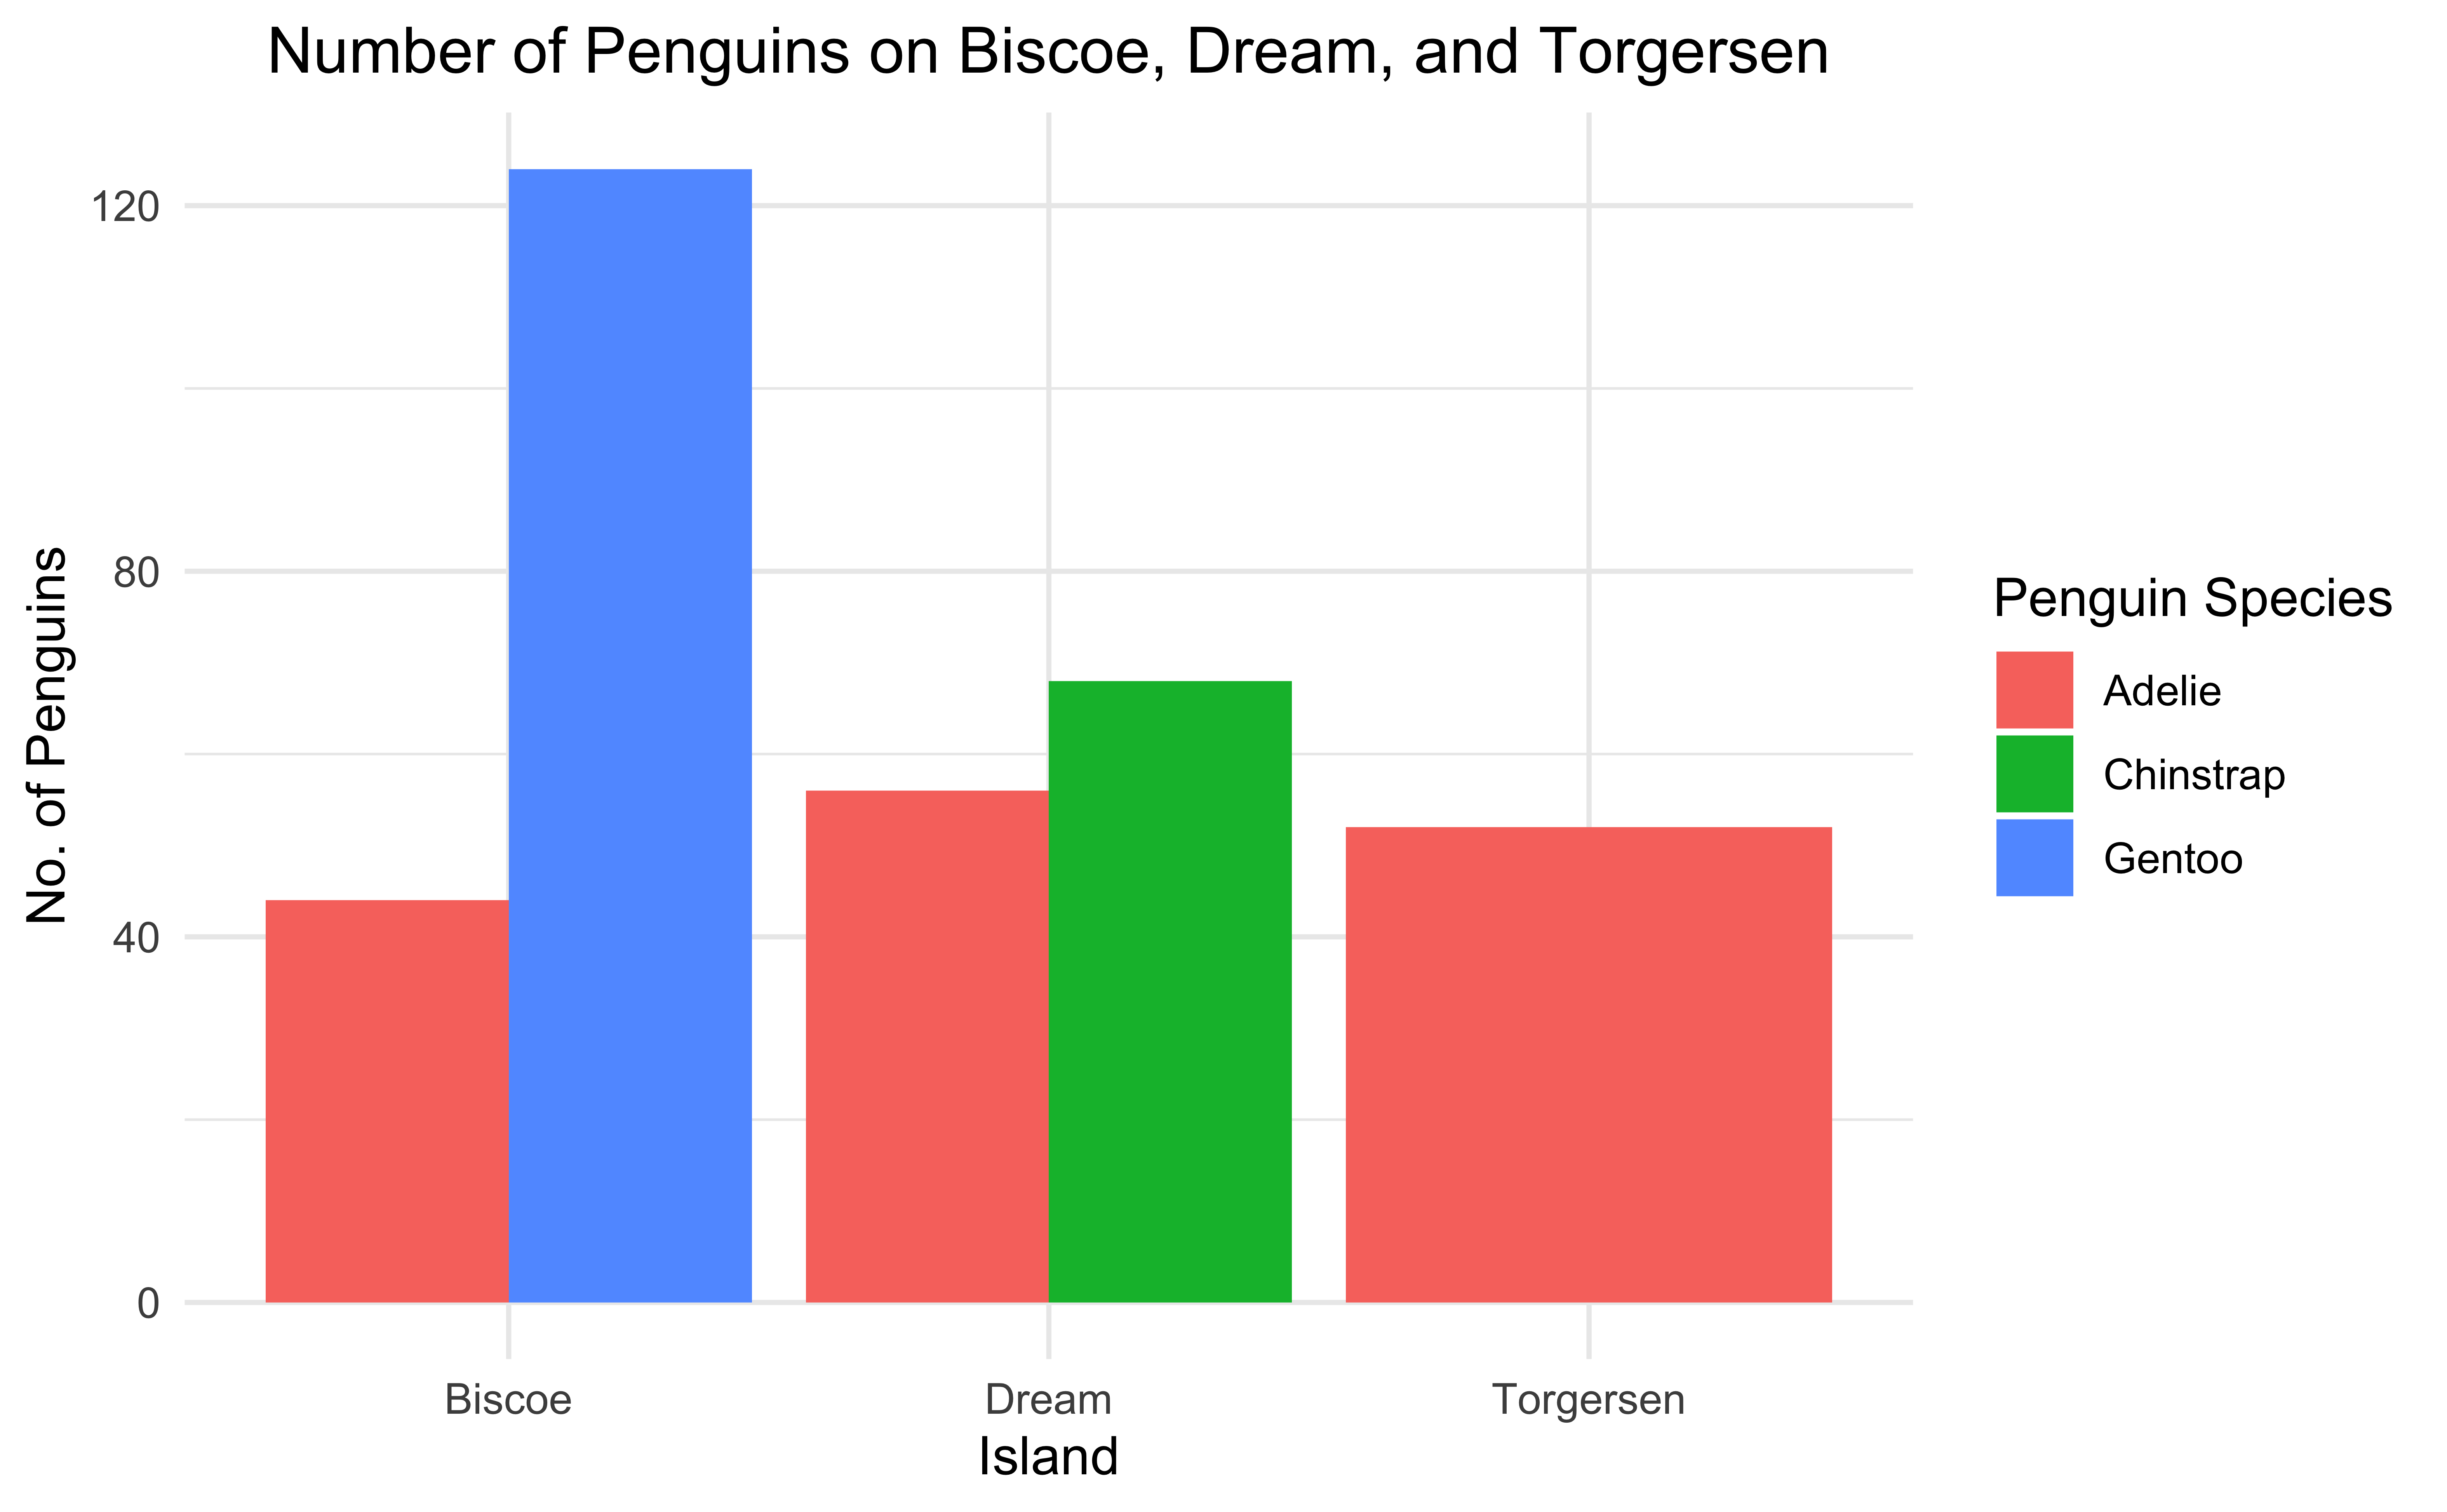
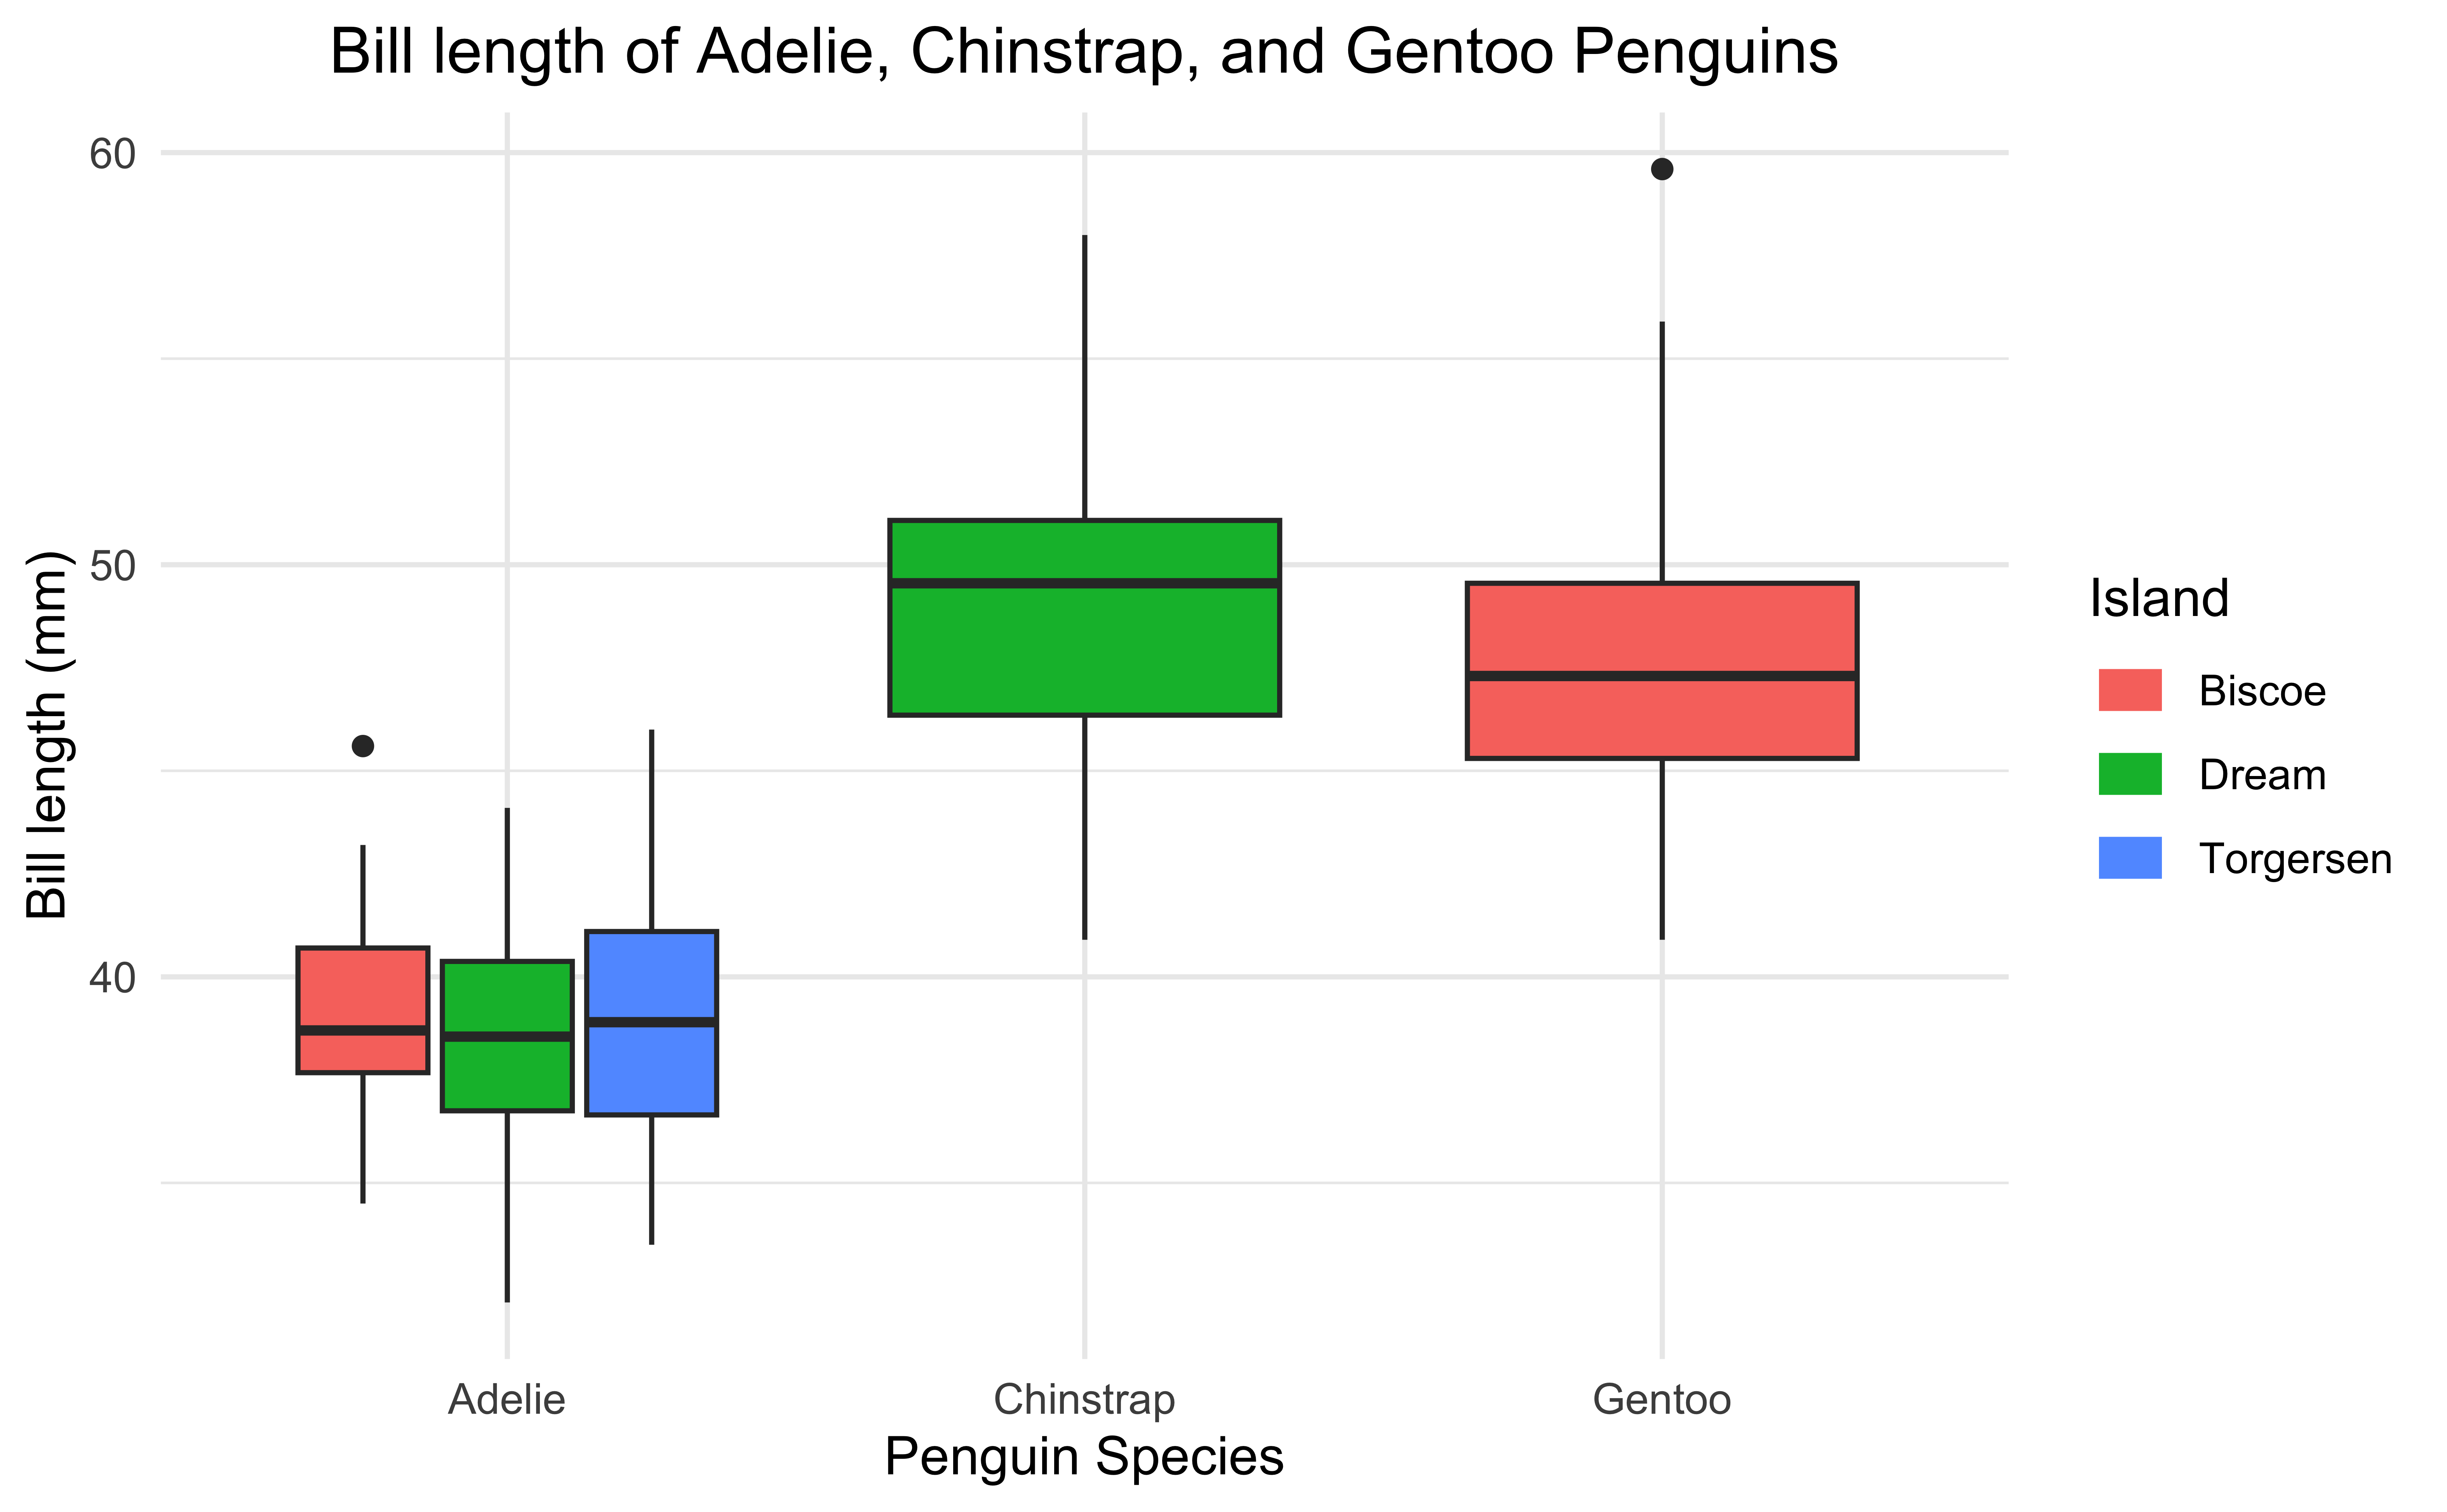
rendered all the changes

diff --git a/_site/proposal.html b/_site/proposal.html
@@ -4315,31 +4315,31 @@ vertical-align: -.125em;
 <h2 class="anchored" data-anchor-id="dataset">Dataset</h2>
 <div class="cell">
 <div class="code-copy-outer-scaffold"><div class="sourceCode cell-code" id="cb2"><pre class="sourceCode numberSource r number-lines code-with-copy"><code class="sourceCode r"><span id="cb2-1"><a href="#cb2-1"></a><span class="co"># load the dataset</span></span>
-<span id="cb2-2"><a href="#cb2-2"></a>penguins <span class="ot">&lt;-</span> readr<span class="sc">::</span><span class="fu">read_csv</span>(<span class="st">&#39;https://raw.githubusercontent.com/rfordatascience/tidytuesday/main/data/2025/2025-04-15/penguins.csv&#39;</span>)</span></code></pre></div><button title="Copy to Clipboard" class="code-copy-button"><i class="bi"></i></button></div>
+<span id="cb2-2"><a href="#cb2-2"></a>penguin <span class="ot">&lt;-</span> readr<span class="sc">::</span><span class="fu">read_csv</span>(<span class="st">&#39;https://raw.githubusercontent.com/rfordatascience/tidytuesday/main/data/2025/2025-04-15/penguins.csv&#39;</span>)</span></code></pre></div><button title="Copy to Clipboard" class="code-copy-button"><i class="bi"></i></button></div>
 </div>
 <div class="cell">
 <div class="code-copy-outer-scaffold"><div class="sourceCode cell-code" id="cb3"><pre class="sourceCode numberSource r number-lines code-with-copy"><code class="sourceCode r"><span id="cb3-1"><a href="#cb3-1"></a><span class="co"># View the first 10 lines of the dataset</span></span>
 <span id="cb3-2"><a href="#cb3-2"></a><span class="fu">head</span>(penguins)</span></code></pre></div><button title="Copy to Clipboard" class="code-copy-button"><i class="bi"></i></button></div>
 <div class="cell-output cell-output-stdout">
-<pre><code># A tibble: 6 × 8
-  species island    bill_len bill_dep flipper_len body_mass sex     year
-  &lt;chr&gt;   &lt;chr&gt;        &lt;dbl&gt;    &lt;dbl&gt;       &lt;dbl&gt;     &lt;dbl&gt; &lt;chr&gt;  &lt;dbl&gt;
-1 Adelie  Torgersen     39.1     18.7         181      3750 male    2007
-2 Adelie  Torgersen     39.5     17.4         186      3800 female  2007
-3 Adelie  Torgersen     40.3     18           195      3250 female  2007
-4 Adelie  Torgersen     NA       NA            NA        NA &lt;NA&gt;    2007
-5 Adelie  Torgersen     36.7     19.3         193      3450 female  2007
-6 Adelie  Torgersen     39.3     20.6         190      3650 male    2007</code></pre>
+<pre><code>  species    island bill_len bill_dep flipper_len body_mass    sex year
+1  Adelie Torgersen     39.1     18.7         181      3750   male 2007
+2  Adelie Torgersen     39.5     17.4         186      3800 female 2007
+3  Adelie Torgersen     40.3     18.0         195      3250 female 2007
+4  Adelie Torgersen       NA       NA          NA        NA   &lt;NA&gt; 2007
+5  Adelie Torgersen     36.7     19.3         193      3450 female 2007
+6  Adelie Torgersen     39.3     20.6         190      3650   male 2007</code></pre>
 </div>
 <div class="code-copy-outer-scaffold"><div class="sourceCode cell-code" id="cb5"><pre class="sourceCode numberSource r number-lines code-with-copy"><code class="sourceCode r"><span id="cb5-1"><a href="#cb5-1"></a><span class="co"># Preview the unique penguin species in the dataset</span></span>
 <span id="cb5-2"><a href="#cb5-2"></a><span class="fu">unique</span>(penguins<span class="sc">$</span>species)</span></code></pre></div><button title="Copy to Clipboard" class="code-copy-button"><i class="bi"></i></button></div>
 <div class="cell-output cell-output-stdout">
-<pre><code>[1] &quot;Adelie&quot;    &quot;Gentoo&quot;    &quot;Chinstrap&quot;</code></pre>
+<pre><code>[1] Adelie    Gentoo    Chinstrap
+Levels: Adelie Chinstrap Gentoo</code></pre>
 </div>
 <div class="code-copy-outer-scaffold"><div class="sourceCode cell-code" id="cb7"><pre class="sourceCode numberSource r number-lines code-with-copy"><code class="sourceCode r"><span id="cb7-1"><a href="#cb7-1"></a><span class="co"># Preview the unique islands in the dataset</span></span>
 <span id="cb7-2"><a href="#cb7-2"></a><span class="fu">unique</span>(penguins<span class="sc">$</span>island)</span></code></pre></div><button title="Copy to Clipboard" class="code-copy-button"><i class="bi"></i></button></div>
 <div class="cell-output cell-output-stdout">
-<pre><code>[1] &quot;Torgersen&quot; &quot;Biscoe&quot;    &quot;Dream&quot;    </code></pre>
+<pre><code>[1] Torgersen Biscoe    Dream    
+Levels: Biscoe Dream Torgersen</code></pre>
 </div>
 <div class="code-copy-outer-scaffold"><div class="sourceCode cell-code" id="cb9"><pre class="sourceCode numberSource r number-lines code-with-copy"><code class="sourceCode r"><span id="cb9-1"><a href="#cb9-1"></a><span class="co"># Preview unique years in dataset</span></span>
 <span id="cb9-2"><a href="#cb9-2"></a><span class="fu">unique</span>(penguins<span class="sc">$</span>year)</span></code></pre></div><button title="Copy to Clipboard" class="code-copy-button"><i class="bi"></i></button></div>
@@ -4999,7 +4999,7 @@ vertical-align: -.125em;
 <span id="cb11-29"><a href="#cb11-29"></a></span>
 <span id="cb11-32"><a href="#cb11-32"></a><span class="in">```{r}</span></span>
 <span id="cb11-33"><a href="#cb11-33"></a><span class="co"># load the dataset</span></span>
-<span id="cb11-34"><a href="#cb11-34"></a>penguins <span class="ot">&lt;-</span> readr<span class="sc">::</span><span class="fu">read_csv</span>(<span class="st">&#39;https://raw.githubusercontent.com/rfordatascience/tidytuesday/main/data/2025/2025-04-15/penguins.csv&#39;</span>)</span>
+<span id="cb11-34"><a href="#cb11-34"></a>penguin <span class="ot">&lt;-</span> readr<span class="sc">::</span><span class="fu">read_csv</span>(<span class="st">&#39;https://raw.githubusercontent.com/rfordatascience/tidytuesday/main/data/2025/2025-04-15/penguins.csv&#39;</span>)</span>
 <span id="cb11-35"><a href="#cb11-35"></a><span class="in">```</span></span>
 <span id="cb11-36"><a href="#cb11-36"></a></span>
 <span id="cb11-39"><a href="#cb11-39"></a><span class="in">```{r}</span></span>
@@ -5015,7 +5015,7 @@ vertical-align: -.125em;
 <span id="cb11-49"><a href="#cb11-49"></a></span>
 <span id="cb11-50"><a href="#cb11-50"></a><span class="fu">## Introduction to the Dataset</span></span>
 <span id="cb11-51"><a href="#cb11-51"></a></span>
-<span id="cb11-52"><a href="#cb11-52"></a>The Palmer Penguins dataset was first created in TidyTuesday in July 2020 and was last updated in 2025. The dataset has <span class="in">`r ncol(penguins)`</span> columns/variables - Species, Island, Bill length, Bill depth, Flipper length, Body mass, Sex, and Year. There are <span class="in">`r nrow(penguins)`</span> observations/rows of data on the various species of penguins. The species included in this dataset includes <span class="in">`r dplyr::n_distinct(penguins$species)`</span> types of penguins - Adelie, Gentoo, and Chinstrap. The dataset also focuses on <span class="in">`r dplyr::n_distinct(penguins$island)`</span> islands - Torgersen, Biscoe, and Dream. I chose this dataset as I love penguins and I would love to see how different factors can affect the different characteristics in penguins. It would also be interesting to see how the body mass of penguins change over the years through evolution.</span>
+<span id="cb11-52"><a href="#cb11-52"></a>The Palmer Penguins dataset was first created in TidyTuesday in July 2020 and was last updated in 2025. The dataset has <span class="in">`r ncol(penguin)`</span> columns/variables - Species, Island, Bill length, Bill depth, Flipper length, Body mass, Sex, and Year. There are <span class="in">`r nrow(penguin)`</span> observations/rows of data on the various species of penguins. The species included in this dataset includes <span class="in">`r dplyr::n_distinct(penguin$species)`</span> types of penguins - Adelie, Gentoo, and Chinstrap. The dataset also focuses on <span class="in">`r dplyr::n_distinct(penguin$island)`</span> islands - Torgersen, Biscoe, and Dream. I chose this dataset as I love penguins and I would love to see how different factors can affect the different characteristics in penguins. It would also be interesting to see how the body mass of penguins change over the years through evolution.</span>
 <span id="cb11-53"><a href="#cb11-53"></a></span>
 <span id="cb11-54"><a href="#cb11-54"></a><span class="fu">## Questions</span></span>
 <span id="cb11-55"><a href="#cb11-55"></a></span>